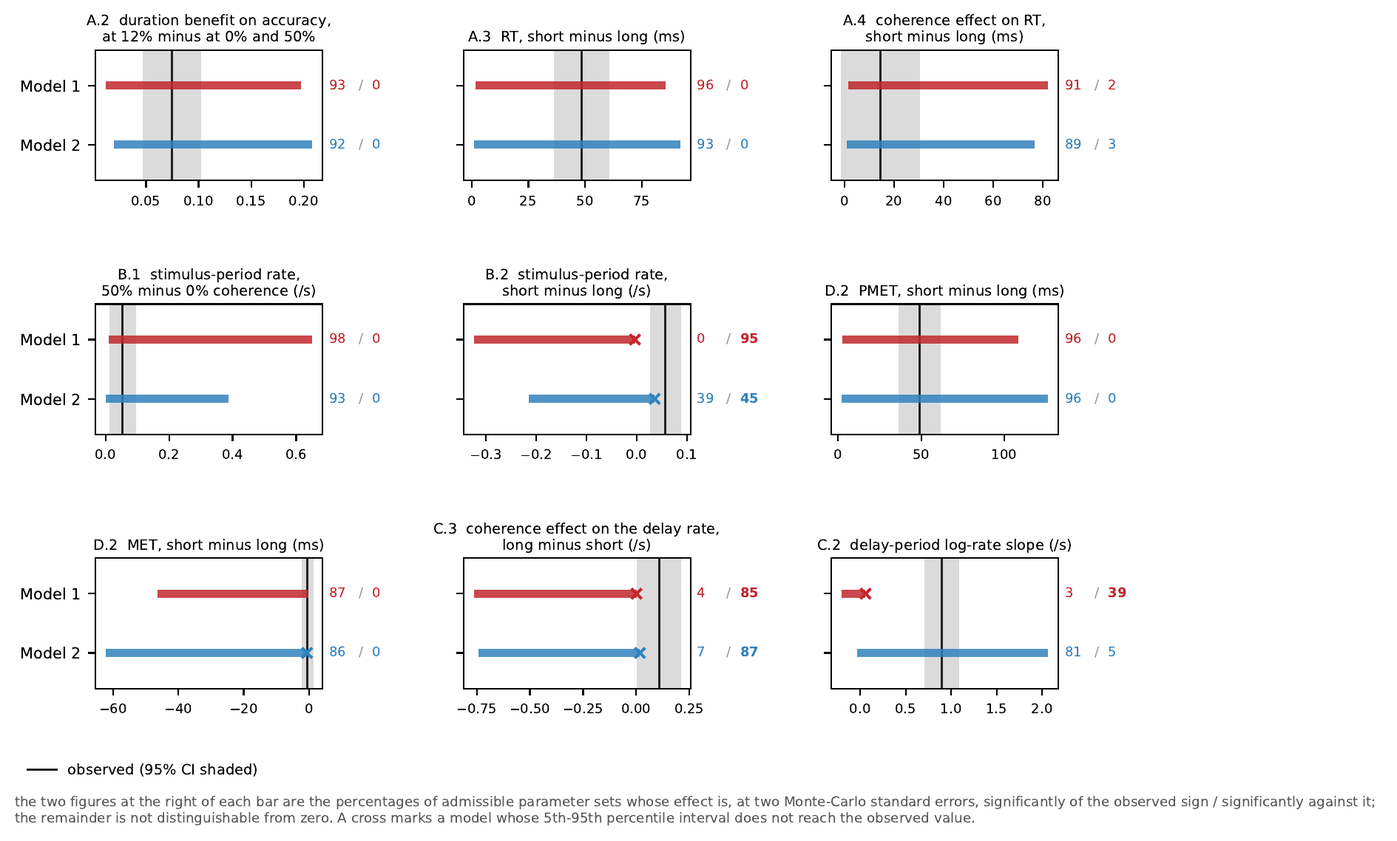
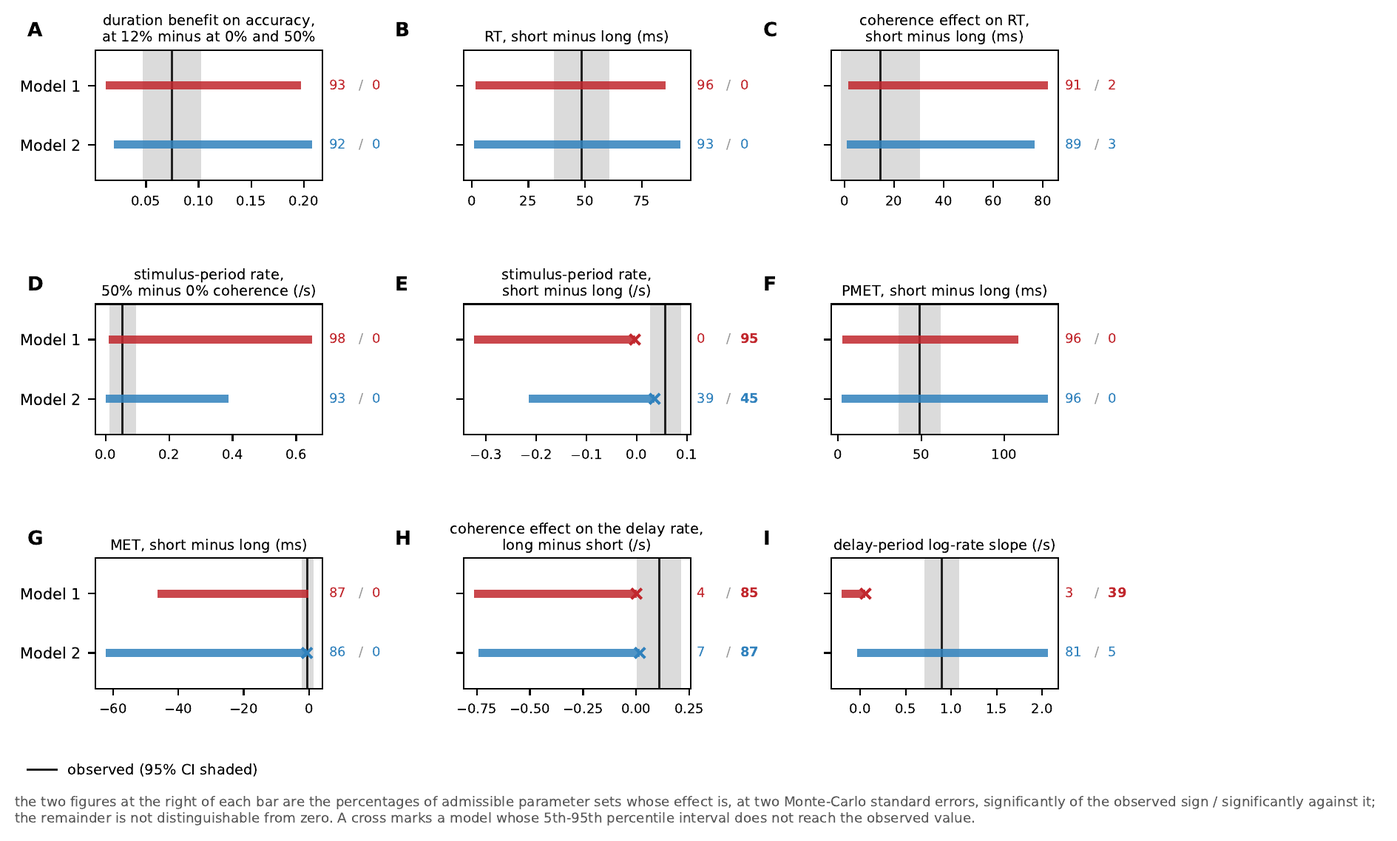
Appendix A.5 on the stimulus-period duration effect; panel letters on Figure 7
Proposition A.5 (approved) formalizes the stimulus-locked duration prediction
under Model 1, the only one of the three exclusions that rested on simulation
alone.  Checking it changed what it says.  The Results claimed Model 1's only
duration dependence is "that the long stimulus has accumulated more evidence
by the end of the window", but per cell the effect is largest at ZERO
coherence, where there is no evidence to accumulate: median -0.0415 s^-1 and
negative at 162 of 164 admissible draws, against -0.0083 and 122/164 at 50%.

The channel is variance, not mean.  During accumulation the variance of the
gate-facing signal is V(w) = sigma_x^2 * int_0^w (1-exp(-lambda v))^2 dv,
which grows without bound; once maintenance begins it is V(D_s) + V_H(rho),
which saturates.  A.5 states the coupling, both moments, and the sufficient
condition sigma_x(1-exp(-lambda D_s)) >= sigma_eps (kappa/lambda)^(kappa/
(lambda-kappa)) under which the long condition's variance dominates, hence
a_l <= a_s at every t and every coherence.  All three formulas were checked
against simulation (3-4 significant figures); the condition holds at 154 of
164 admissible draws and the effect keeps its sign at the other 10.

The Results sentence now gives both channels and says the second works at
zero coherence.  Remark on scope is renumbered A.6.

Figure 7: panels lettered A-I in figures_space.py, and the stale "A.2 / B.1 /
C.3" prefixes dropped from effect_panel.NAMES -- they named statements in the
[…]

diff --git a/manuscript/latex/delay.tex b/manuscript/latex/delay.tex
@@ -406,7 +406,7 @@ Figures~\ref{fig:behavior}A and~\ref{fig:behavior}B show response accuracy and m
 
 \subsubsection{\new{Simulation validation}}
 
-\new{The parameter-space evaluation gives the range of magnitudes each model can produce for each behavioral effect (Figure~\ref{fig:effects}). The duration benefit on accuracy, measured as the benefit at 12\% minus the mean of the benefits at 0\% and 50\%, was 0.075 $\pm$ 0.014 in the data, against ranges of 0.012 to 0.197 for Model 1 and 0.020 to 0.208 for Model 2. The duration effect on response time was 49 $\pm$ 6 ms, against 2 to 86 ms and 1 to 92 ms; the coherence $\times$ duration interaction on it (the coherence effect after the short stimulus minus the coherence effect after the long one, as predicted above) was +15 $\pm$ 8 ms, against 1 to 82 ms and 1 to 76 ms.} \new{Each of these effects is significantly of the observed sign at 89\% or more of each model's admissible draws and} \new{significantly against it at 3\% or fewer.} \new{On every behavioral effect the observed value falls inside both models' ranges, and the two ranges are barely distinguishable from one another, which is the quantitative form of the same point: $\beta$ cannot move any of these quantities, so no behavioral measure separates the models at any parameter setting. The ranges are wide because they describe what a model can do across its whole admissible space.}
+\new{The parameter-space evaluation gives the range of magnitudes each model can produce for each behavioral effect (Figure~\ref{fig:effects}A--C). The duration benefit on accuracy, measured as the benefit at 12\% minus the mean of the benefits at 0\% and 50\%, was 0.075 $\pm$ 0.014 in the data, against ranges of 0.012 to 0.197 for Model 1 and 0.020 to 0.208 for Model 2. The duration effect on response time was 49 $\pm$ 6 ms, against 2 to 86 ms and 1 to 92 ms; the coherence $\times$ duration interaction on it (the coherence effect after the short stimulus minus the coherence effect after the long one, as predicted above) was +15 $\pm$ 8 ms, against 1 to 82 ms and 1 to 76 ms.} \new{Each of these effects is significantly of the observed sign at 89\% or more of each model's admissible draws and} \new{significantly against it at 3\% or fewer.} \new{On every behavioral effect the observed value falls inside both models' ranges, and the two ranges are barely distinguishable from one another, which is the quantitative form of the same point: $\beta$ cannot move any of these quantities, so no behavioral measure separates the models at any parameter setting. The ranges are wide because they describe what a model can do across its whole admissible space.}
 
 \subsection{\new{Stimulus-locked}}
 
@@ -414,7 +414,7 @@ Figures~\ref{fig:behavior}A and~\ref{fig:behavior}B show response accuracy and m
 
 \new{By Equation~\eqref{eq:x} the first-stage drift is $skc$, so a higher coherence carries $x$, and through Equation~\eqref{eq:y} the motor-preparatory signal $y$, further and faster. A partial activation requires that signal to exceed the gate $g$ (Equation~\eqref{eq:z}), so the partial-activation rate is predicted to rise more steeply, and to reach a higher level, at higher coherence. Neither \eqref{eq:x} nor \eqref{eq:y} involves $\beta$, so this prediction is common to both models and cannot separate them.}
 
-\new{By duration the two models diverge, and this is the only place outside the delay period where they do. Because the preparation ramp begins at stimulus offset, it occupies about three-quarters of the 2-s stimulus-onset window in the 0.3-s condition and none of it in the 2-s condition. Model 1 has no ramp, so the only duration dependence left to it is that the long stimulus has accumulated more evidence by the end of the window: it predicts a higher rate after the \emph{long} stimulus. Model 2's ramp pushes the effect the other way, but whether it overturns the level effect depends on the ramp's size relative to the distance to the gate, and those are independent parameters; the reversal therefore holds over part of Model 2's admissible space and not all of it. A rate higher after the \emph{short} stimulus is therefore incompatible with Model 1 and compatible with Model 2.}
+\new{By duration the two models diverge, and this is the only place outside the delay period where they do. Because the preparation ramp begins at stimulus offset, it occupies about three-quarters of the 2-s stimulus-onset window in the 0.3-s condition and none of it in the 2-s condition. Model 1 has no ramp, so the only duration dependence left to it is in the first accumulation: the long stimulus keeps adding both evidence and variance to the motor-preparatory signal, whereas after the short stimulus the signal is maintained and its fluctuation saturates. Both push the rate up after the long stimulus, and the second operates even at zero coherence (Appendix, Proposition~\ref{prop:duration}): it predicts a higher rate after the \emph{long} stimulus. Model 2's ramp pushes the effect the other way, but whether it overturns the level effect depends on the ramp's size relative to the distance to the gate, and those are independent parameters; the reversal therefore holds over part of Model 2's admissible space and not all of it. A rate higher after the \emph{short} stimulus is therefore incompatible with Model 1 and compatible with Model 2.}
 
 
 \subsubsection{\new{Empirical results}}
@@ -437,7 +437,7 @@ Figure~\ref{fig:pmaeeg}C shows the LRP for each condition and period. Although t
 
 \subsubsection{\new{Simulation validation}}
 
-\new{Two quantities from this window were evaluated over the parameter space (Figure~\ref{fig:effects}): the coherence effect, which both models predict and which therefore serves as a control, and the duration effect, on which they disagree.}
+\new{Two quantities from this window were evaluated over the parameter space: the coherence effect, which both models predict and which therefore serves as a control (Figure~\ref{fig:effects}D), and the duration effect, on which they disagree (Figure~\ref{fig:effects}E).}
 
 \new{Take the control first. The shared architecture predicts} \new{the stimulus-period partial-activation rate to be higher at high coherence in both models, and it is: the rate at 50\% coherence minus the rate at 0\% was +0.054 $\pm$ 0.020 s\textsuperscript{-1} in the data, against 0.009 to 0.651 s\textsuperscript{-1} over Model 1's admissible draws and 0.001 to 0.388 over Model 2's, with the observed sign significant at 98\% and 93\% of them and the opposite sign at none. The models are separated by the one contrast on which the ramp acts, not by this one.}
 
@@ -522,7 +522,7 @@ During the delay, however, the analysis showed a clear effect of time bin \new{(
 
 \new{The same calculation applies to Model 2. Temporal preparation moves the gate-facing signal towards the gate, which enters the crossing-rate formula in one place only, the derivative of the signal relative to the barrier, so the frontier can be computed for that model too. That calculation knows nothing of admissibility, and an unbounded ramp would give an unbounded slope, so the ramp has to be capped by hand. Capping it at three fluctuation standard deviations over the analyzed window (near the 97th percentile of the ramps the admissibility screen accepts, whose median is 0.39 and whose maximum is 8.4, so that 4\% of admissible draws exceed the cap),} \new{Model 2 reaches a delay-period log-rate slope of +4.05 s\textsuperscript{-1} at the observed rate, against an observed +0.89; and it attains the observed slope at rates up to 6.4 s\textsuperscript{-1}, nine times the observed rate. Model 1 at the same rate reaches nothing distinguishable from zero, and attains the observed slope only at 0.069 s\textsuperscript{-1}.} \new{Model 2 exceeds what has to be explained several times over; Model 1 cannot reach it at any rate a participant showed.} \new{This is also why the two frontiers have a different status. For Model 1 the frontier is a bound: with no ramp the rate depends on nothing but $\kappa$, $\lambda$ and the distance to the gate, all three of which are swept, and nothing outside the calculation can raise it. For Model 2 it is an upper envelope under a cap read off the screened sample, so it says what that model can reach, not what it typically does.}
 
-\new{This is the one window in which the two models' ranges separate cleanly (Figure~\ref{fig:effects}, right-hand panels). Two quantities have to be reproduced together here: the rate at which partial activations occur during the delay, and the slope of its logarithm. Over the admissible draws Model 1's slope is centred near zero (median $-$0.02 s\textsuperscript{-1}, 5th to 95th percentile $-$0.20 to +0.09) and Model 2's is positive (median +0.27, $-$0.06 to +1.98). Classified against their Monte-Carlo error, Model 1's slope is significantly positive at 3\% of its draws, significantly negative at 39\%, and indistinguishable from zero at the remaining 58\%; Model 2's is significantly positive at 81\%, negative at 5\%, and flat at 14\%. Model 1 produces a flat rate, which is what a model with no temporal-preparation ramp should produce and what the data contradict. Model 2 produces all six cell slopes significantly positive in 76 of its 148 admissible draws while Model 1 does so in none of its 164. Requiring both quantities at once is decisive, and is what the frontier above predicts. No draw of Model 1 reaches the observed slope range at any rate; 16 draws of Model 2 do.}
+\new{This is the one window in which the two models' ranges separate cleanly (Figure~\ref{fig:effects}I). Two quantities have to be reproduced together here: the rate at which partial activations occur during the delay, and the slope of its logarithm. Over the admissible draws Model 1's slope is centred near zero (median $-$0.02 s\textsuperscript{-1}, 5th to 95th percentile $-$0.20 to +0.09) and Model 2's is positive (median +0.27, $-$0.06 to +1.98). Classified against their Monte-Carlo error, Model 1's slope is significantly positive at 3\% of its draws, significantly negative at 39\%, and indistinguishable from zero at the remaining 58\%; Model 2's is significantly positive at 81\%, negative at 5\%, and flat at 14\%. Model 1 produces a flat rate, which is what a model with no temporal-preparation ramp should produce and what the data contradict. Model 2 produces all six cell slopes significantly positive in 76 of its 148 admissible draws while Model 1 does so in none of its 164. Requiring both quantities at once is decisive, and is what the frontier above predicts. No draw of Model 1 reaches the observed slope range at any rate; 16 draws of Model 2 do.}
 
 \new{Figure~\ref{fig:frontier} shows this directly. The two quantities are on the two axes, the frontier is the boundary of what Model 1 can produce, and the observation lies far outside it. Two features of the picture do not read off it directly. Model 1's draws lie along the bottom of the plot at every rate, which is the frontier holding. And Model 2's draws that reach the observed slope sit mostly at low rates (of the sixteen, thirteen fall below 0.4 s\textsuperscript{-1}), so while Model 2 can reproduce the ramp and the rate together where Model 1 cannot do so anywhere, it does this in a thin part of its sampled space. Restricted to draws whose rate brackets the observed one, neither model's median profile rises as steeply as the data (Figure~\ref{fig:shape}). That is a residual for Model 2, and it is the same residual the saturation argument above identifies from the other side.}
 
@@ -530,7 +530,7 @@ During the delay, however, the analysis showed a clear effect of time bin \new{(
 
 \new{Figure~\ref{fig:shape} shows this at the level of the rate curve itself, and shows it across the parameter space rather than at one setting: every admissible draw of Model 1 gives a delay-period profile that is flat or declining, while Model 2's fan out, many of them tracking the observed rise and beyond. This is the same statement as the frontier, seen in the time domain rather than as a pair of summary numbers.}
 
-\new{One further quantity in this window (Figure~\ref{fig:effects}) is the paper's clearest disagreement with its own model. Saturation of the maintained level predicts the coherence effect on the delay-period rate to shrink after a long stimulus; the data show it growing. Measured as the coherence effect after the 2 s stimulus minus the coherence effect after the 0.3 s stimulus, the observed value is +0.107 $\pm$ 0.051 s\textsuperscript{-1}, whereas the 5th to 95th percentiles of the admissible draws run from $-$0.764 to +0.001 s\textsuperscript{-1} for Model 1 and $-$0.741 to +0.017 s\textsuperscript{-1} for Model 2. The effect is significantly of the observed sign at 4\% and 7\% of admissible draws against significantly opposite at 85\% and 87\%. This is the one effect on which both models commit themselves clearly and both are wrong.}
+\new{One further quantity in this window (Figure~\ref{fig:effects}H) is the paper's clearest disagreement with its own model. Saturation of the maintained level predicts the coherence effect on the delay-period rate to shrink after a long stimulus; the data show it growing. Measured as the coherence effect after the 2 s stimulus minus the coherence effect after the 0.3 s stimulus, the observed value is +0.107 $\pm$ 0.051 s\textsuperscript{-1}, whereas the 5th to 95th percentiles of the admissible draws run from $-$0.764 to +0.001 s\textsuperscript{-1} for Model 1 and $-$0.741 to +0.017 s\textsuperscript{-1} for Model 2. The effect is significantly of the observed sign at 4\% and 7\% of admissible draws against significantly opposite at 85\% and 87\%. This is the one effect on which both models commit themselves clearly and both are wrong.}
 
 
 \subsection{\new{RS-locked}}
@@ -568,7 +568,7 @@ This coherence-independent ramping activity persisted after the RS \new{(F(1,21)
 
 \new{The closed-form rate of the Appendix does not apply} \new{after the response signal: the criterion now acts as an absorbing barrier, and conditioning on survival destroys the Gaussianity on which} \new{Equation \eqref{eq:nu_asymp}} \new{depends.}
 
-\new{The parameter-space evaluation constrains this window through the dissociation between the two components of response time (Figure~\ref{fig:effects}). The conditions are predicted to move the premotor component and to leave the motor component alone, since nothing in either model makes the passage from the gate to the response criterion depend on coherence or duration. In the data the duration effect on premotor execution time was +49 $\pm$ 6 ms and} \new{the duration effect on motor execution time was $-$0.5 $\pm$ 0.8 ms}\new{.} \new{Both models produce the premotor effect (Model 1, 3 to 108 ms; Model 2, 2 to 126 ms)} \new{and both leave the motor component nearly alone ($-$46 to 0 ms and $-$62 to $-$1 ms). The dissociation is therefore reproduced, though not exactly: the models do not leave the motor component strictly alone. Its duration effect is significantly below zero at 87\% and 86\% of admissible draws, with medians of $-$5 and $-$8 ms, where the data give an effect indistinguishable from zero. The discrepancy is small, a few milliseconds on a component whose mean is 161 ms, but it is systematic, and it says that the passage from the gate to the response criterion is slightly faster in the simulation after the short stimulus than after the long one, whereas in the muscle it is not.}
+\new{The parameter-space evaluation constrains this window through the dissociation between the two components of response time (Figure~\ref{fig:effects}F and~G). The conditions are predicted to move the premotor component and to leave the motor component alone, since nothing in either model makes the passage from the gate to the response criterion depend on coherence or duration. In the data the duration effect on premotor execution time was +49 $\pm$ 6 ms and} \new{the duration effect on motor execution time was $-$0.5 $\pm$ 0.8 ms}\new{.} \new{Both models produce the premotor effect (Model 1, 3 to 108 ms; Model 2, 2 to 126 ms)} \new{and both leave the motor component nearly alone ($-$46 to 0 ms and $-$62 to $-$1 ms). The dissociation is therefore reproduced, though not exactly: the models do not leave the motor component strictly alone. Its duration effect is significantly below zero at 87\% and 86\% of admissible draws, with medians of $-$5 and $-$8 ms, where the data give an effect indistinguishable from zero. The discrepancy is small, a few milliseconds on a component whose mean is 161 ms, but it is systematic, and it says that the passage from the gate to the response criterion is slightly faster in the simulation after the short stimulus than after the long one, whereas in the muscle it is not.}
 
 
 \subsection{\new{Response-locked}}
@@ -652,7 +652,7 @@ In conclusion, delayed decision reports are not generated by storing an abstract
 
 \begin{center}\includegraphics[width=\linewidth]{figures/fig11.png}\end{center}
 
-\captionof{figure}{\new{\textbf{Effect sizes each model can produce, against the observed value, for the nine directional predictions the Results test.}} \new{Each effect is written so that the sign its proposition predicts is positive, and the panel title says which difference is taken. Bars span the 5th to 95th percentile of the effect over each model's admissible draws; the vertical line is the observed value and the grey band its 95\% confidence interval across participants; a cross marks a band that does not contain the observed value. The two figures at the right of each bar are the percentages of admissible sets whose effect is, at two Monte-Carlo standard errors, significantly of the observed sign and significantly against it; the remainder is not distinguishable from zero.}}\label{fig:effects}
+\captionof{figure}{\new{\textbf{Effect sizes each model can produce, against the observed value, for the nine directional predictions the Results test.}} \new{Panels: \textbf{A}, duration benefit on accuracy; \textbf{B}, duration effect on RT; \textbf{C}, coherence $\times$ duration interaction on RT; \textbf{D}, coherence effect on the stimulus-period rate; \textbf{E}, duration effect on the stimulus-period rate; \textbf{F}, duration effect on PMET; \textbf{G}, duration effect on MET; \textbf{H}, coherence $\times$ duration interaction on the delay-period rate; \textbf{I}, delay-period log-rate slope. Each effect is written so that the sign the derivation predicts is positive, and the panel title says which difference is taken. Bars span the 5th to 95th percentile of the effect over each model's admissible draws; the vertical line is the observed value and the grey band its 95\% confidence interval across participants; a cross marks a band that does not contain the observed value. The two figures at the right of each bar are the percentages of admissible sets whose effect is, at two Monte-Carlo standard errors, significantly of the observed sign and significantly against it; the remainder is not distinguishable from zero.}}\label{fig:effects}
 
 
 \section{Tables}
@@ -882,6 +882,38 @@ M\left(t\right)=\frac{\beta }{\delta }+\frac{{c}_{H}\left(t\right)}{{\sigma }_{H
 
 \new{It is decreasing in} \new{$\kappa$}\new{, and its supremum over} \new{$\kappa$} \new{is the limit} \new{$\kappa \to 0$}\new{, in which} \new{$K\left(v\right)\to {\sigma }_{\varepsilon }\left(1-{e}^{-\lambda v}\right)$} \new{and the equation above becomes} \new{$1/\left(\rho -3/\left(2\lambda \right)\right)$} \new{up to terms of order} \new{${e}^{-\lambda \rho }$}\new{: the filter's lag displaces the clock and nothing else survives. Hence} \new{${\left({\sigma }_{H}^{2}\left(\rho \right)\right)}^{'}/{\sigma }_{H}^{2}\left(\rho \right)\le 1/\left(\rho -3/\left(2\lambda \right)\right)$} \new{throughout, so no choice of} \new{$\kappa$} \new{makes the log-rate slope decay more slowly than that. The realized decay is steeper for two further reasons: the first bracket of \eqref{eq:slope2} is negative and grows in relative importance as the transient dies, and the standardized distance itself falls as the variance fills, shrinking the factor} \new{${a}^{2}/2$} \new{that multiplies the second. Model 2 is under no such constraint: by \eqref{eq:slope} its slope is proportional to a standardized distance falling linearly. The decay factors this imposes, and the observed one, are in Results.}
 \end{corollary}
+}
+
+{\color{addcol}
+\begin{proposition}[duration and the stimulus-period rate]\label{prop:duration}
+\new{Under Model 1 the stimulus-period crossing rate is higher after the long stimulus, and at zero coherence this is carried entirely by the growth of the fluctuation. Fix every parameter, let the analysed window be $[0,T]$, and let $D_{s}<D_{l}$ satisfy $L+D_{s}<T\le L+D_{l}$, where $L:=L_{\mathrm{motion}}$. Write $\tau :=L+D_{s}$, $\rho :=t-\tau$, and let $\tilde{y}_{D}$ be the gate-facing signal under duration $D$ in the absence of the internal threshold. Then:}
+
+\new{(i) $\tilde{y}_{s}$ and $\tilde{y}_{l}$ have the same law on $[0,\tau ]$;}
+
+\new{(ii) for $t\in (\tau ,T]$, $\Var \tilde{y}_{l}(t)-\Var \tilde{y}_{s}(t)=\int_{0}^{\rho }\left[{\sigma }_{x}^{2}\left(1-e^{-\lambda (D_{s}+w)}\right)^{2}-K(w)^{2}\right]\, \dd w$;}
+
+\new{(iii) if ${\sigma }_{x}\left(1-e^{-\lambda D_{s}}\right)\ge {\sigma }_{\varepsilon }\left(\kappa /\lambda \right)^{\kappa /(\lambda -\kappa )}$ then that difference is non-negative for every $\rho \ge 0$;}
+
+\new{(iv) $\E \tilde{y}_{l}(t)-\E \tilde{y}_{s}(t)=skc\left[\rho -{\lambda }^{-1}\left(e^{-\lambda D_{s}}-e^{-\lambda (D_{s}+\rho )}\right)\right]\ge 0$, with equality if and only if $c=0$.}
+
+\new{Under (iii) the standardized distance to the gate satisfies $a_{l}(t)\le a_{s}(t)$ for every $t$ in the window, at every coherence, including $c=0$, where (iv) contributes nothing.}
+
+\new{\emph{Proof.} (i) On $[0,\tau ]$ encoded evidence is available in both conditions and the dynamics are identical, so driving both by the same $W_{x}$ makes the paths equal.}
+
+\new{(ii) During accumulation, integrating $\dd y=\lambda (x-y)\, \dd t$ against $\dd x=skc\, \dd t+{\sigma }_{x}\, \dd W_{x}$ from $L$ and integrating by parts gives $\tilde{y}(L+w)=skc\left[w-{\lambda }^{-1}(1-e^{-\lambda w})\right]+{\sigma }_{x}\int_{0}^{w}\left(1-e^{-\lambda (w-u)}\right)\, \dd W_{x}(u)$, so}
+
+{\color{addcol}
+\begin{equation*}
+\Var \tilde{y}(L+w)=V(w):={\sigma }_{x}^{2}\int_{0}^{w}{\left(1-e^{-\lambda v}\right)}^{2}\, \dd v={\sigma }_{x}^{2}\left[w-\frac{3}{2\lambda }+\frac{2}{\lambda }e^{-\lambda w}-\frac{1}{2\lambda }e^{-2\lambda w}\right]
+\end{equation*}
+}
+
+\new{For $t>\tau $ the short condition maintains at $m=\tilde{y}_{s}\left(\tau \right)$ and $\tilde{y}_{s}(t)=m+H\left(\rho \right)$ with $H$ as in \eqref{eq:H}; $m$ is measurable with respect to $W_{x}$ and $H$ is driven by ${W}_{\varepsilon }\indep {W}_{x}$, so $\Var \tilde{y}_{s}(t)=V\left(D_{s}\right)+{V}_{H}\left(\rho \right)$ with ${V}_{H}\left(\rho \right)=\int_{0}^{\rho } K{\left(v\right)}^{2}\, \dd v$. The long condition is still accumulating, so $\Var \tilde{y}_{l}(t)=V\left(D_{s}+\rho \right)$. Subtracting and differentiating $V$ under the integral gives (ii).}
+
+\new{(iii) The integrand in (ii) is non-negative for every $w\ge 0$ as soon as ${\sigma }_{x}\left(1-e^{-\lambda \left(D_{s}+w\right)}\right)\ge K\left(w\right)$, and $1-e^{-\lambda \left(D_{s}+w\right)}\ge 1-e^{-\lambda D_{s}}$, so it suffices that ${\sigma }_{x}\left(1-e^{-\lambda D_{s}}\right)\ge {\max }_{w\ge 0}K\left(w\right)$. Differentiating $K$ gives the maximizer ${w}^{*}=\ln \left(\lambda /\kappa \right)/\left(\lambda -\kappa \right)$ and $K\left({w}^{*}\right)={\sigma }_{\varepsilon }{\left(\kappa /\lambda \right)}^{\kappa /\left(\lambda -\kappa \right)}$.}
+
+\new{(iv) From the mean in (ii), $\E \tilde{y}_{l}(t)-\E \tilde{y}_{s}(t)=skc\left[\rho -{\lambda }^{-1}e^{-\lambda D_{s}}\left(1-e^{-\lambda \rho }\right)\right]$, and ${\lambda }^{-1}\left(1-e^{-\lambda \rho }\right)\le \rho $ with $e^{-\lambda D_{s}}\le 1$. $\square $}
+\end{proposition}
 }
 
 {\color{addcol}

diff --git a/scripts/figures_space.py b/scripts/figures_space.py
@@ -149,10 +149,11 @@ def fig_delay_profiles(fname='plots/fig_delay_profiles.pdf'):
 
 # ---------------------------------------------------- 3. the effect-size panel
 def fig_effect_sizes(fname='plots/fig_effect_sizes.pdf'):
-    """What each architecture can produce, on the effects that carry an argument, against
+    """What each model can produce, on the effects that carry an argument, against
     the observation. Bars span the 5th-95th percentile over admissible draws, the tick is
     the median; the vertical line is the observed value with its 95% CI shaded. A bar that
-    does not reach the line is a quantitative failure of that architecture on that effect."""
+    does not reach the line is a quantitative failure of that model on that effect.
+    Panels are lettered A-I in the order of effect_panel.NAMES."""
     P = json.load(open('results/effect_panel.json'))
     keys = list(P['names'])
     ncol = 3
@@ -175,6 +176,9 @@ def fig_effect_sizes(fname='plots/fig_effect_sizes.pdf'):
         a.set_yticks([0, 1]); a.set_yticklabels([])
         a.set_ylim(-0.6, 1.6)
         a.set_title(P['names'][k], fontsize=7.0, pad=4)
+        # panel letter, in the order of NAMES (effect_panel.py); the Results cite these
+        a.text(-0.30, 1.22, chr(65 + list(keys).index(k)), transform=a.transAxes,
+               fontsize=9.5, fontweight='bold', va='top', ha='left')
         a.tick_params(axis='x', labelsize=6.5)
         # the DIRECTION, printed per model as two percentages: the share of admissible
         # sets whose effect is, at two Monte-Carlo standard errors, significantly of the

diff --git a/scripts/effect_panel.py b/scripts/effect_panel.py
@@ -88,16 +88,19 @@ def effects(acc, rt, srate, rate, pmet, met, prem, slope):
     }
 
 
+# Panel order fixes the panel letters A-I that the figure draws and the Results cite.
+# The old "A.2 / B.1 / C.3 ..." prefixes named statements in the five-appendix scheme that
+# was collapsed into a single appendix on 2026-08-27; they were stale and are gone.
 NAMES = dict(
-    acc_int='A.2  duration benefit on accuracy,\nat 12% minus at 0% and 50%',
-    rt_dur='A.3  RT, short minus long (ms)',
-    rt_int='A.4  coherence effect on RT,\nshort minus long (ms)',
-    stim_coh='B.1  stimulus-period rate,\n50% minus 0% coherence (/s)',
-    stim_dur='B.2  stimulus-period rate,\nshort minus long (/s)',
-    pmet_dur='D.2  PMET, short minus long (ms)',
-    met_dur='D.2  MET, short minus long (ms)',
-    delay_int='C.3  coherence effect on the delay rate,\nlong minus short (/s)',
-    slope='C.2  delay-period log-rate slope (/s)')
+    acc_int='duration benefit on accuracy,\nat 12% minus at 0% and 50%',
+    rt_dur='RT, short minus long (ms)',
+    rt_int='coherence effect on RT,\nshort minus long (ms)',
+    stim_coh='stimulus-period rate,\n50% minus 0% coherence (/s)',
+    stim_dur='stimulus-period rate,\nshort minus long (/s)',
+    pmet_dur='PMET, short minus long (ms)',
+    met_dur='MET, short minus long (ms)',
+    delay_int='coherence effect on the delay rate,\nlong minus short (/s)',
+    slope='delay-period log-rate slope (/s)')
 
 NTR = 4000.0
 
